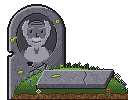
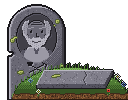
Могила деда: тест состояний и текстур, ярче борода в гравировке, раздел ГДД
tests/test_grave: текстуры на месте и в игровом размере (2 клетки в ширину,
ниже героя), пиксель без полупрозрачности, палитра ограничена, гравировка
контрастна, подсказка world:grave целит в тот же прямоугольник; плита закрыта
до diary_first, после — сдвинута и банка стоит в яме; после концовки самородок
на плите и едет вместе с плитой; во времена деда могилы нет; реквизит сцен
(банка, самородок, могила в интро) — та же картинка, точка и масштаб.
ГДД раздел 2: что решено и почему (без имени и дат, сетка 2:1, состояния).

Claude-Session: https://claude.ai/code/session_0136gV4z446Ram1BD5cWLTAs

Changed region(s): [[0.1875, 0.33, 0.375, 0.51], [0.375, 0.33, 0.4062, 0.36]]

diff --git a/tools/gen_grave.py b/tools/gen_grave.py
@@ -295,7 +295,7 @@ def engrave(c, tone, hmap):
     # Борода и усы.
     beard = c.poly(P([(16, 30), (19, 36), (22, 42), (28, 47), (CX, 49), (36, 47), (42, 42), (45, 36), (48, 30),
                       (44, 34), (38, 36), (CX, 35), (26, 36), (20, 34)]))
-    raised(beard)
+    raised(beard, 7)                          # седая борода — самое светлое на плите
     mouth = c.line(P([(27, 39), (CX, 40), (37, 39)]))
     groove(mouth & beard, 3)
     must = c.poly(P([(24, 36), (28, 34), (CX, 35), (36, 34), (40, 36), (36, 38), (CX, 37), (28, 38)]))
